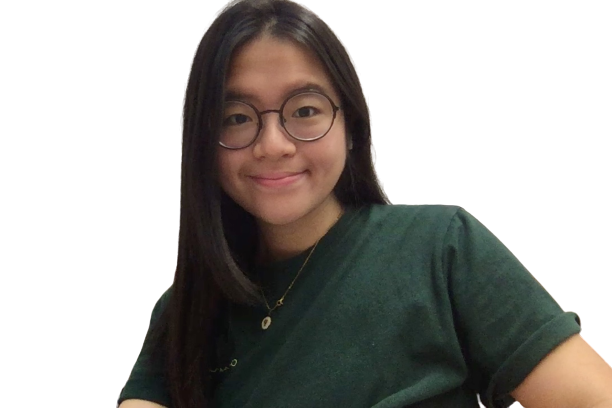
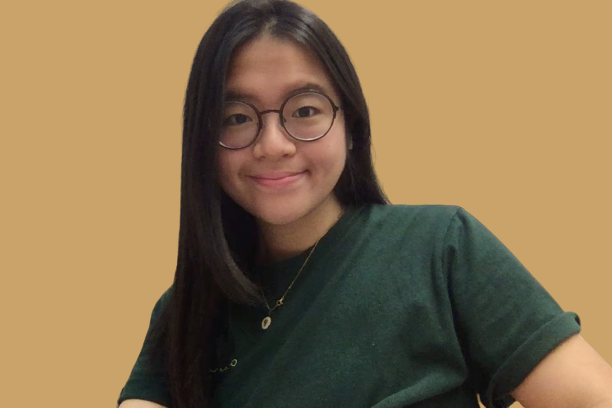
Web Portfolio Rev4

diff --git a/index.html b/index.html
@@ -30,6 +30,9 @@
       		<li class="nav-item active">
         		<a class="nav-link" href="#landing"> Home <span class="sr-only">(current)</span></a>
       		</li>
+      		<li class="nav-item active">
+        		<a class="nav-link" href="#about-me"> About Me <span class="sr-only">(current)</span></a>
+      		</li>
       		<li class="nav-item">
         		<a class="nav-link" href="#projects">Projects</a>
       		</li>
@@ -64,6 +67,23 @@
 	</a></div>
 </div>
 <!-- Landing Page End -->
+
+<!-- about me start -->
+<div id="about-me" class="container-fluid ">
+
+	<div class="content-about p-3 d-md-flex justify-content-around">
+				<div class="p-3 col-lg-6 "><img width=600 class="profile-img-about img-fluid mt-5" src="images/aboutme.jpg"  alt="My picture"></div>
+				<div class="p-5 col-lg-6 mt-5">
+					<h2 class="pb-3">Hi! I'm <b>Pauline</b>. Nice to meet you!</h2> 
+					<h5> Since beginning my journey as a web developer, I have found my niche in building minimalistic websites. But don't worry, we'll make your dream website work! </h5>
+
+					<h5> I am a naturally curious person and am perpetually working on improving my skills. In my free time, I love to play frisbee, travel and watch TikTok videos. </h5>
+
+					<p>P.S. Mr. Penguin says hi too!</p></div>
+	</div>
+	
+</div>
+<!-- about me end -->
 
 <!-- Projects Page Start -->
 <div id="projects" data-aos="fade-up" data-aos-duration="1000" class="container-fluid">
@@ -167,7 +187,7 @@
 		    <label for="exampleFormControlTextarea1" class="text-light">Message</label>
 		    <textarea class="form-control" id="FormControlTextarea1" rows="7"></textarea>
 		  </div>
-		  <button type="submit " class="bg-dark text-light p-2 rounded border-dark">Send Email</button>
+		  <button type="submit " class="button-contact text-light p-2 rounded border-dark">Send Email</button>
 	</form>
 </div>
 		

diff --git a/index.css b/index.css
@@ -133,22 +133,40 @@ nav{
 /* landing page design end */
 
 
+/*about me start*/
+#about-me{
+  min-height: 100vh;
+  width:100vw;
+  background-color: rgb(201, 163, 105) !important;
+  margin-bottom: 2px;
+}
+
+/*.profile-img-about{
+	margin-top: 150px;
+}
+
+.caption{
+	margin-top: 12rem;
+}*/
+/*about me end*/
+
+
 /* projects page design start */
 
 
 #projects{
   min-height: 100vh;
-  background-color: rgb(201, 163, 105) !important;
+  background-color: rgb(12,51,69) !important;
   margin-bottom: 2px;
 }
 	.title-proj{
 		padding-top:3em;
-		font-color:rgb(12,51,69);
+		color:rgb(201, 163, 105) !important;
 		font-weight: 1200px;
 	}
 
 	.hr-proj{
-		background:rgb(12,51,69);
+		background:rgb(201, 163, 105);
 		position:relative;
 		height:12px;
 		width:20%;
@@ -188,7 +206,7 @@ nav{
 	.content-image{
 		width: 100%	
 	}
-img{
+.projects img{
 	box-shadow:1px 1px 5px 1px rgba(0, 0, 0, 0.1);
 	border-radius: 25px;
 }
@@ -234,8 +252,8 @@ img{
 	.button-proj{
 	border-radius: 250px;
 	padding:8px;
-	background-color: rgb(12,51,69);
-	color:white;
+	background-color: rgb(201, 163, 105);
+	color:rgb(12,51,69);
 	font-size: 20px;
 	}
 
@@ -244,7 +262,7 @@ img{
 /* tools page design start */
 #tools{
   min-height: 100vh;
-  background-color: rgb(12,51,69) !important;
+  background-color: rgb(201, 163, 105) !important;
   margin-bottom: 2px;
 }
 
@@ -256,12 +274,18 @@ img{
 	color:white;
 }
 
+
+
 /* tools page design end */
 
 /* contact form */
 #contact{
   min-height: 100vh;
-  background-color: rgb(201, 163, 105) !important;
+  background-color: rgb(12,51,69) !important;
+}
+
+.button-contact{
+	background-color:rgb(201, 163, 105);
 }
 
 footer{
